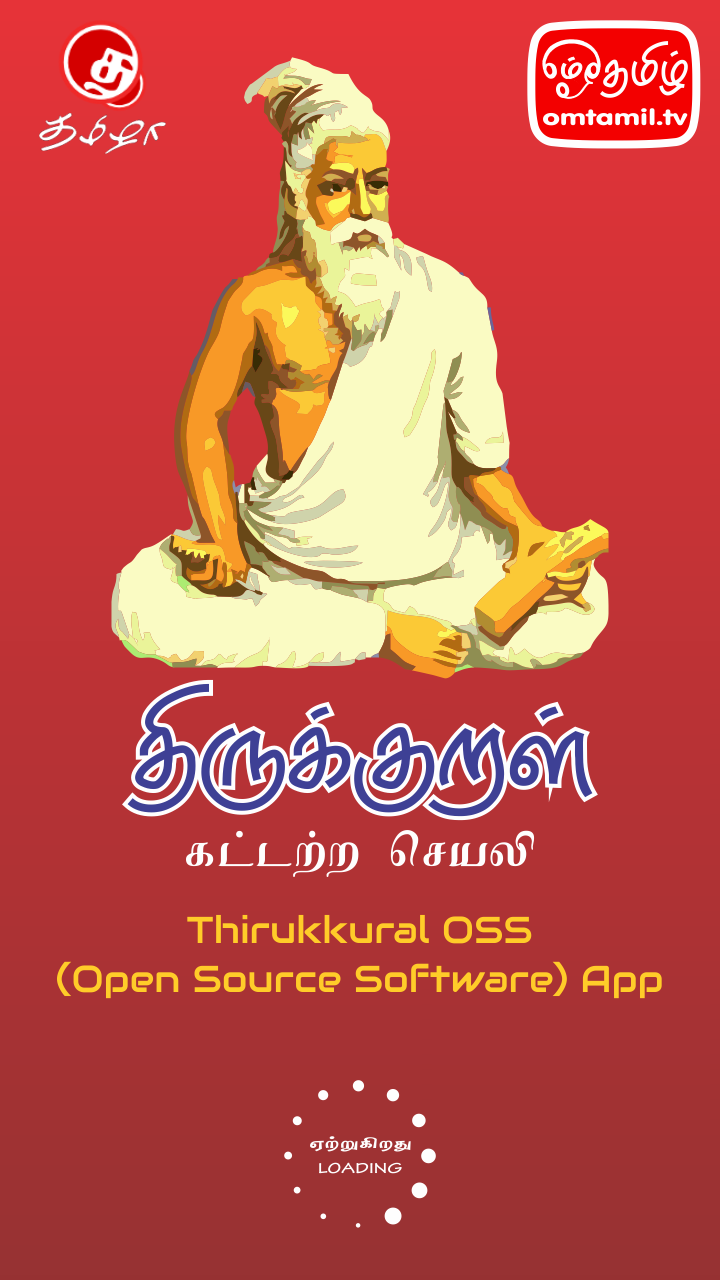
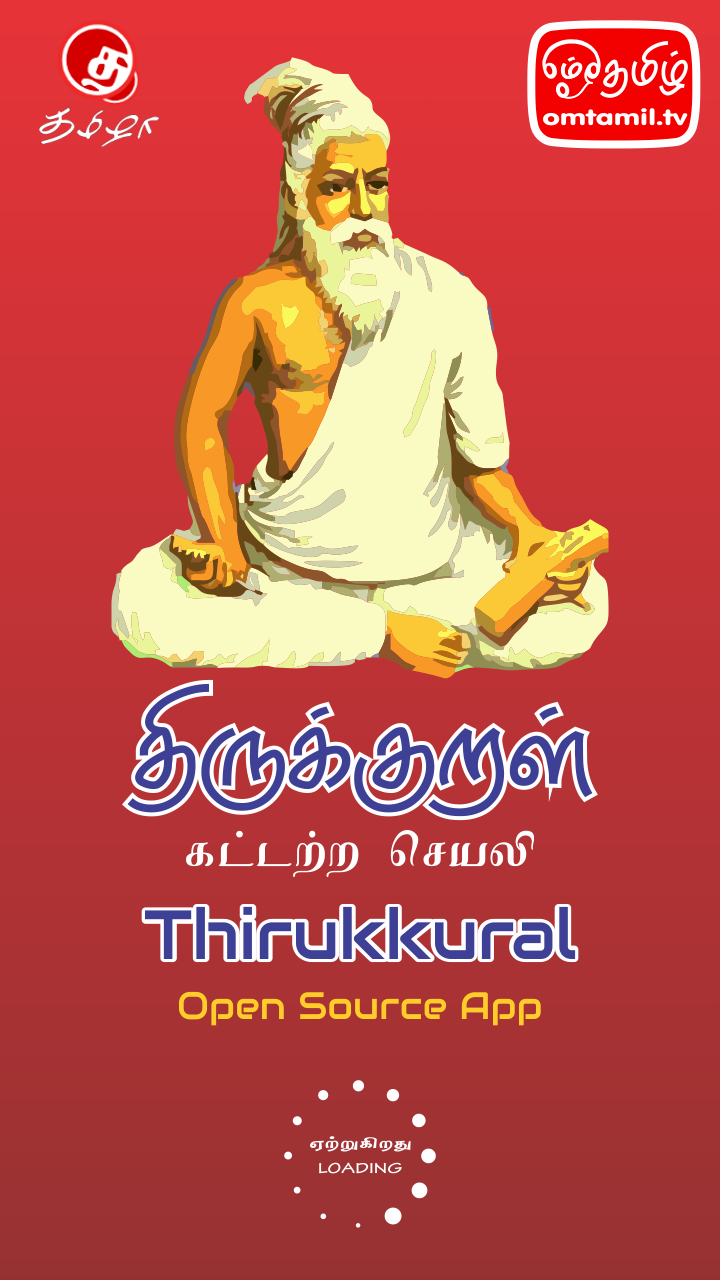
Listview responsive test

Changed region(s): [[0.0611, 0.6875, 0.9167, 0.8125], [0.0611, 0.0, 0.2444, 0.125]]

diff --git a/www/index.html b/www/index.html
@@ -1,12 +1,16 @@
 <!DOCTYPE html>
 <html>
  <head>
-  <title>Tirukkural OSS</title>
+  <title>Tirukkural Open Source App</title>
   <meta charset="utf-8" />
   <meta name="viewport" content="width=device-width, initial-scale=1">
   <link rel="stylesheet" type="text/css" href="css/jquery.mobile.flatui.css" />
   <script src="js/jquery-1.10.2.min.js"></script>
   <script src="js/jquery.mobile-1.3.1.min.js"></script>
+  
+  
+
+  
   <script>
    var panel = '<div data-role="panel" id="mypanel" data-position="right" data-theme="e" data-display="push"><ul data-role="listview" data-theme="c" class="nav-search"><li data-icon="delete" data-rel="close" data-theme="e"><a href="#">திருக்குறள் செயலி</a></li><li><a href="#about"><small>செயலிப் பற்றி</small></a><li><a href="#contributors"><small>பங்களிப்பாளர்கள்</small></a></li><li><a href="#whats-new"><small>மாற்றங்கள்</small></a></li><li><a href="#todo"><small>செயற்திட்டங்கள்</small></a></li><li><a href="#bugs"><small>வழுக்கள்</small></a></li><li><a href="#references"><small>மேற்கோள்கள்</small></a></li><li data-theme="e">ஓம்தமிழ் செயலிகள்</li><li><img src="img/icon.png" alt="OMTAMIL.TV" class="ui-li-icon ui-corner-none">OMTAMIL.TV <small>(விரைவில்)</small></li><li><img src="img/icon.png" alt="Tholkaappiyam" class="ui-li-icon ui-corner-none">தொல்காப்பியம் <small>(விரைவில்)</small></li></ul><br><center><a href="http://omtamil.tv"><img src="img/omtamil.tv-icon.png"><br><small>தனித்தமிழ் இணையத் தொலைக்காட்சி</small></a></center></div>';
    $(document).on('pagebeforecreate', '[data-role=page]', function() {
@@ -18,6 +22,18 @@
     });
    });
   </script>
+  
+  
+    <style>
+           .myParagraph {
+		overflow:show;
+		text-overflow:clip;
+		white-space:normal;
+		margin-bottom:0px;
+           }
+        </style>
+  
+  
  </head>
  <body>
   <div data-role="page" id="mainindex">
@@ -28,9 +44,14 @@
     <a data-iconpos="notext" href="#mypanel" data-role="button" data-icon="flat-menu"></a>
    </div>
    <!-- content -->
+   
+ 
+   
+   
    <div data-role="content">
-    <ul data-role="listview" data-inset="true" data-filter="true" data-filter-reveal="true" data-filter-placeholder="தேடுக - குறள், எண், சொல்">
-     <li data-filtertext="1">
+
+    <ul data-role="listview" class='moreText' data-inset="true" data-filter="true" data-filter-reveal="true" data-filter-placeholder="தேடுக - குறள், எண், சொல்">
+     <li>
       <a href="1.html#kural1" rel="external">
        <small>அகர முதல எழுத்தெல்லாம் ஆதி
         <br>பகவன் முதற்றே உலகு</small>
@@ -39,8 +60,8 @@
      </li>
      <li data-filtertext="2">
       <a href="1.html#kural2" rel="external">
-       <small>கற்றதனால் ஆய பயனென்கொல் வாலறிவன்
-        <br>நற்றாள் தொழாஅர் எனின்</small>
+      <p class="myParagraph">கற்றதனால் ஆய பயனென்கொல் வாலறிவன்
+        <br>நற்றாள் தொழாஅர் எனின்</p>
        <span class="ui-li-count">2</span>
       </a>
      </li>
@@ -19416,7 +19437,7 @@
       <small>திருக்குறள் கட்டற்ற செயலி</small>
       <h4>Thirukkural Open Source App</h4>
       <p>
-       <small>Beta 0.40 Build 09.08.2014</small>
+       <small>Beta 0.41 Build 12.08.2014</small>
       </p>
      </li>
     </ul>
@@ -19430,7 +19451,7 @@
     <a data-iconpos="notext" href="#mypanel" data-role="button" data-icon="flat-menu"></a>
    </div>
    <div data-role="content">
-    <h3>திருக்குறள் நம்மறை</h3>
+    <h3>தமிழ்மறை திருக்குறள்</h3>
     <small>
      <p>"மாந்தனை மாந்தன் ஆக்குவது திருக்குறள்;
       <br>மாந்தனைச் சான்றோன் ஆக்குவது திருக்குறள்;
@@ -19438,16 +19459,16 @@
       <br>மாந்தனை இறைவன் ஆக்குவது திருக்குறள்;
       <br>மாந்தனைப் பெயராக் கடவுட் பெருநிலையில் ஒன்றச் செய்வதும் திருக்குறள்."</p>
     </small>
-    <p>Thirukkural OSS (Open-Source Software) App is initiated by
+    <p>Thirukkural Open Source App is initiated by
      <a href="http://omtamil.tv">OMTAMIL</a> built around the goal of creating and providing great multi-language Thirukkural experience on all mobile devices platform with clean and simple interface.</p>
     <p>There are many features under continues development. Please send us your feedback and feature requests Or give some of your time to contribute to the project.</p>
-    <p>Thirukkural OSS App is now part of
+    <p>Thirukkural Open Source App is now part of
      <a href="http://thamizha.com">Thamizha</a> Projects.</p>
     <p>Project Home :
      <a href="http://omtamil.tv">http://omtamil.tv</a>
     </p>
     <p>Github Project :
-     <a href="https://github.com/thamizha/thirukkural-oss-app">https://github.com/thamizha/thirukkural-oss-app</a>
+     <a href="https://github.com/thamizha/thirukkural-open-source-app">https://github.com/thamizha/thirukkural-open-source-app</a>
     </p>
     <p>Google Play Store :
      <a href="https://play.google.com/store/apps/details?id=com.omtamil_thirukkural_oss_app">https://play.google.com/store/apps/details?id=com.omtamil_thirukkural_oss_app</a>
@@ -19522,7 +19543,7 @@
     <div data-role="collapsible" data-mini="true" data-theme="a" data-content-theme="c">
      <h4>B. Promotion</h4>
      <ul data-role="listview">
-      <small>You can help us by spread this app usage to others by share about Thirukkural OSS App in your Facebook, Twitter or blogs.</small>
+      <small>You can help us by spread this app usage to others by share about Thirukkural Open Source App in your Facebook, Twitter or blogs.</small>
      </ul>
     </div>
    </div>

diff --git a/www/css/index.css b/www/css/index.css
@@ -114,4 +114,3 @@ h1 {
     -webkit-animation:fade 3000ms infinite;
 }
 
-

diff --git a/README.md b/README.md
@@ -1,17 +1,17 @@
-# Thirukkural OSS App
+# Thirukkural Open Source App
 
-Thirukkural OSS (Open-Source Software) App is initiated by OMTAMIL built around the goal of creating and providing great multi-language Thirukkural experience on all mobile devices platform with clean and simple interface.
+Thirukkural Open Source App is initiated by OMTAMIL built around the goal of creating and providing great multi-language Thirukkural experience on all mobile devices platform with clean and simple interface.
 
 There are many features under continues development. Please send us your feedback and feature requests Or give some of your time to contribute to the project.
 
-Thirukkural OSS App is now part of Thamizha Projects.
+Thirukkural Open Source App is now part of Thamizha Projects.
 
 Project Home : http://omtamil.tv<br>
-Github Project  : https://github.com/thamizha/thirukkural-oss-app<br>
+Github Project  : https://github.com/thamizha/thirukkural-open-source-app<br>
 Google Play Store : https://play.google.com/store/apps/details?id=com.omtamil_thirukkural_oss_app<br>
 PhoneGap Builds : https://build.phonegap.com/apps/575252/builds
 
-"திருக்குறள் நம்மறை"
+"தமிழ்மறை திருக்குறள்"
 
 மாந்தனை மாந்தன் ஆக்குவது திருக்குறள்;
 மாந்தனைச் சான்றோன் ஆக்குவது திருக்குறள்;
